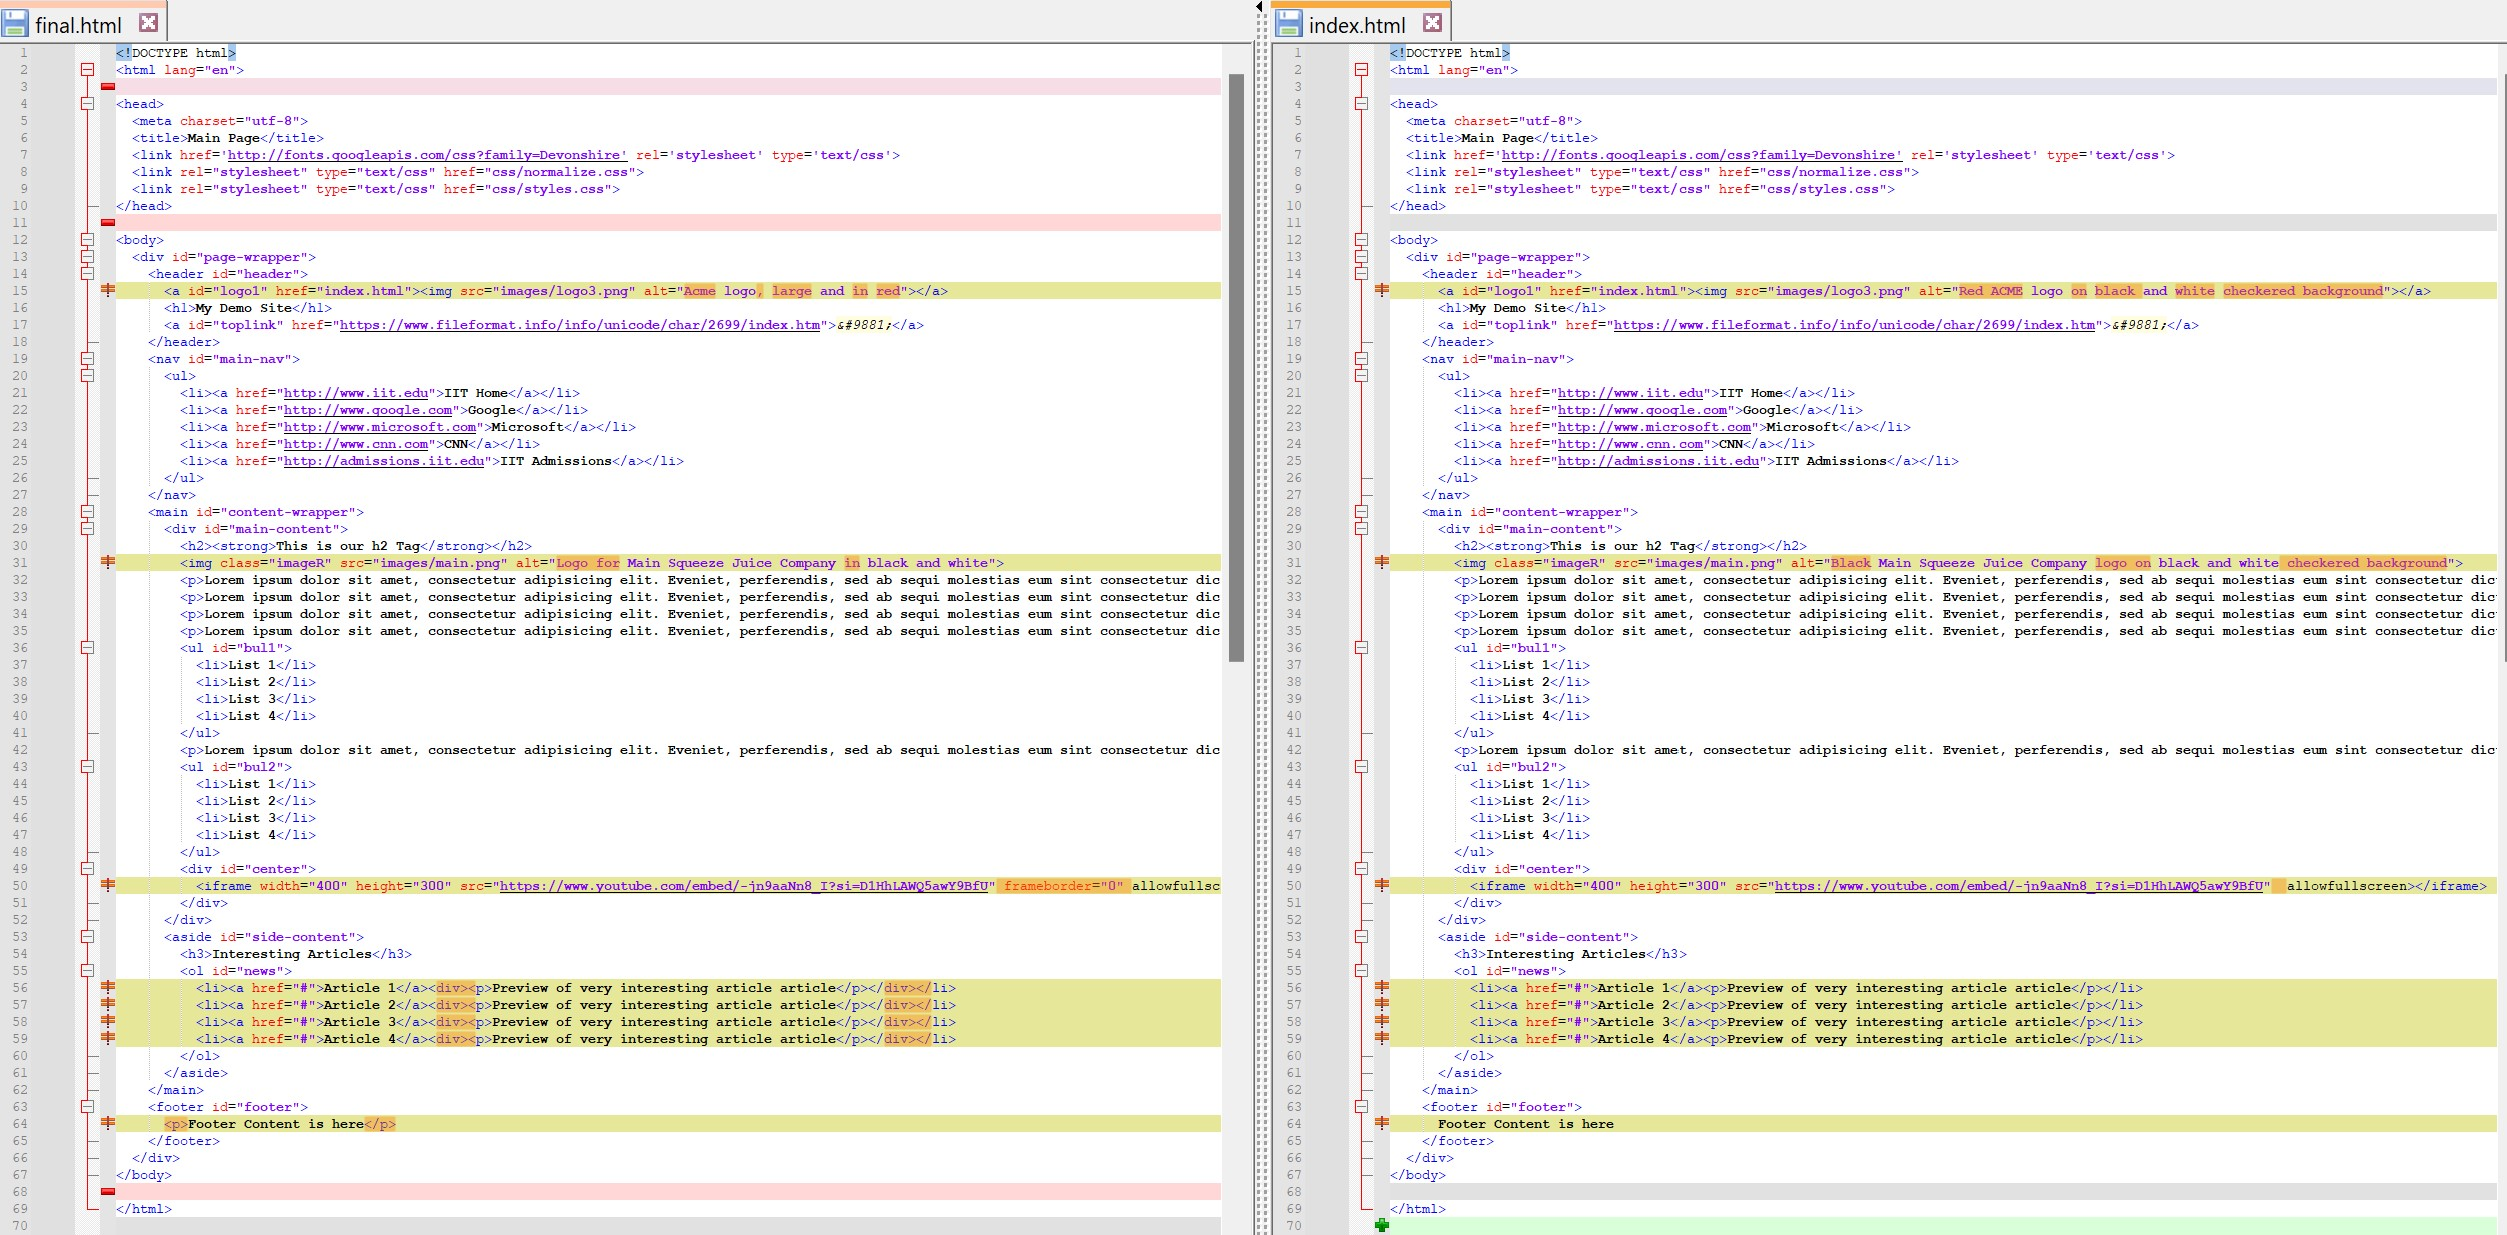
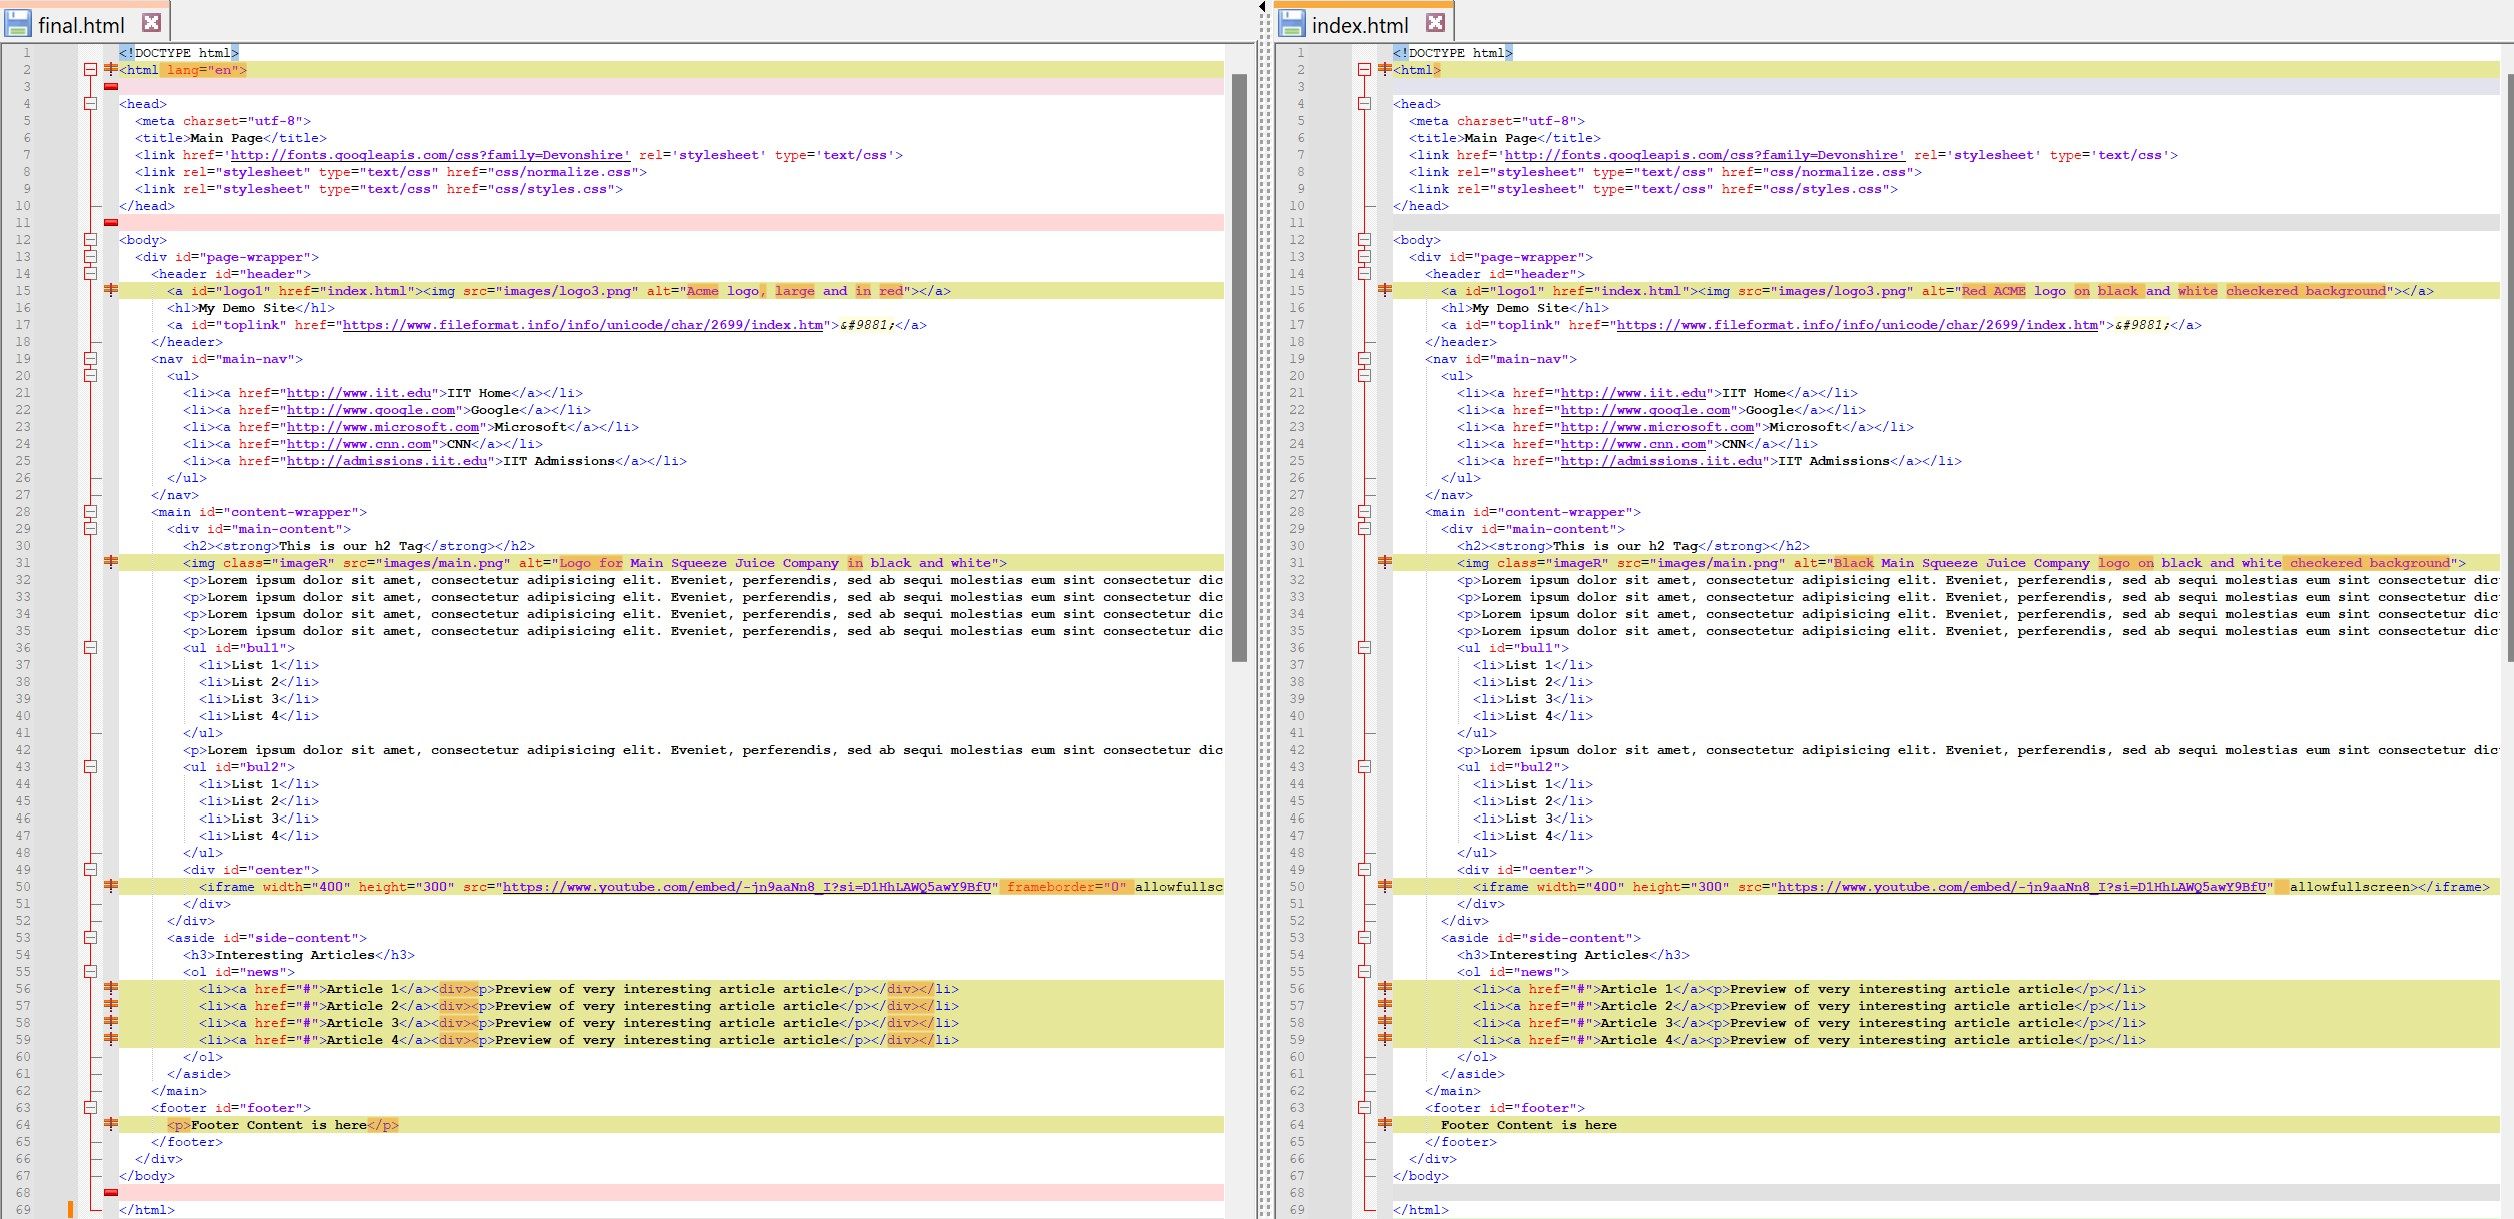
removing lang="en" due to validation warning

Changed region(s): [[0.0, 0.0, 1.0, 1.0]]

diff --git a/index.html b/index.html
@@ -1,5 +1,5 @@
 <!DOCTYPE html>
-<html lang="en">
+<html>
 <head>
   <meta charset="utf-8">
   <title>Main Page</title>
